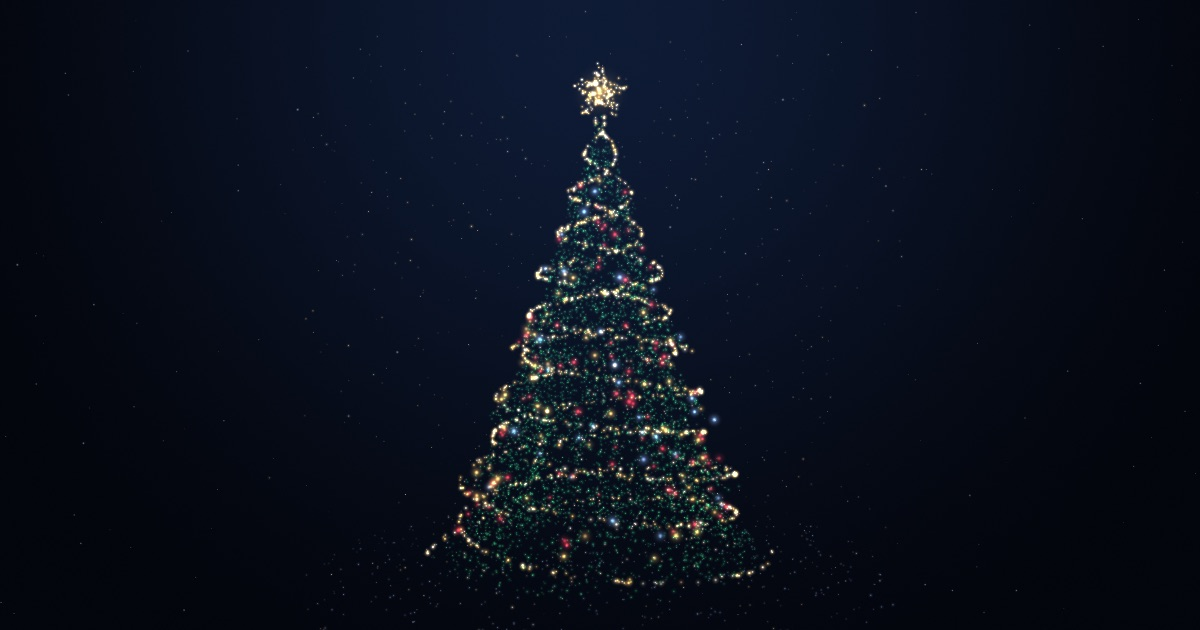
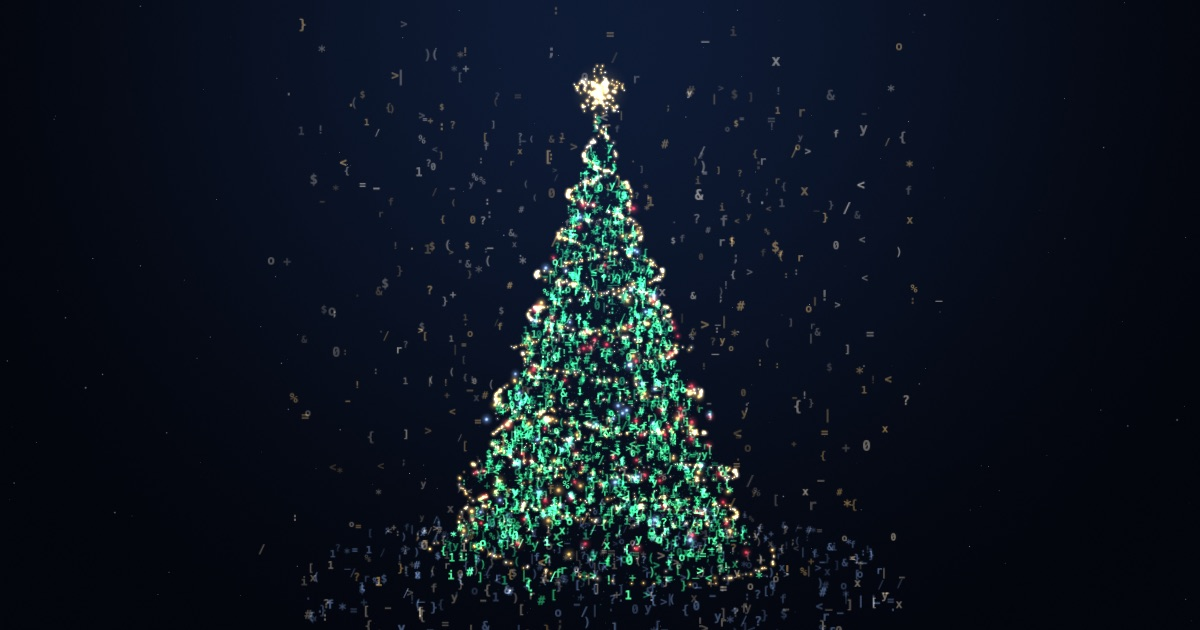
[트리] 트리 가지를 읽히는 크기의 코드 글자로 바꾸고 미리보기 이미지 갱신
## 페이지
- 가지 입자의 약 3분의 1은 자리 잡은 뒤에도 초록 코드 글자로 남고, 나머지는 작고 어두운 점으로 부피만 채움
- 바닥과 주변에 떠 있는 입자도 코드 글자로 표시, 남은 글자는 몇 초에 한 번씩 바뀜
- 전구 줄·오너먼트·별은 빛 점 그대로 유지
- 글리프 텍스처의 글자를 칸 안에서 더 크게 그림

## 공유
- 링크 미리보기 이미지 og.jpg 를 코드 글자 트리로 다시 촬영

diff --git a/index.html b/index.html
@@ -264,6 +264,8 @@ body {
   const size = new Float32Array(N);
   const phase = new Float32Array(N);
   const spin = new Float32Array(N);
+  // 1 이면 자리 잡은 뒤에도 코드 글자로 남고, 0 이면 빛 점(전구·오너먼트·별)이 된다
+  const code = new Float32Array(N);
 
   const setV = (arr, i, x, y, z) => { arr[i * 3] = x; arr[i * 3 + 1] = y; arr[i * 3 + 2] = z; };
   const setC = (arr, i, c, k) => { arr[i * 3] = c[0] * k; arr[i * 3 + 1] = c[1] * k; arr[i * 3 + 2] = c[2] * k; };
@@ -279,8 +281,11 @@ body {
     const r = TREE_R * (1 - h) * tierAt(h) * (0.5 + 0.5 * Math.sqrt(R()));
     const a = R() * Math.PI * 2;
     setV(tree, i, Math.cos(a) * r, Y0 + h * TREE_H, Math.sin(a) * r);
-    if (R() < 0.06) { setC(col, i, WARM, 0.45); size[i] = 70 + R() * 30; }
-    else { setC(col, i, pick(PINES), 0.35 + R() * 0.4); size[i] = 55 + R() * 45; }
+    const roll = R();
+    if (roll < 0.06) { setC(col, i, WARM, 0.45); size[i] = 70 + R() * 30; }
+    // 읽히는 크기의 코드 글자는 일부만 두고, 나머지는 작고 어두운 점으로 트리 부피만 채운다
+    else if (roll < 0.38) { setC(col, i, pick(PINES), 1.0 + R() * 0.5); size[i] = 60; code[i] = 1; }
+    else { setC(col, i, pick(PINES), 0.18 + R() * 0.22); size[i] = 34 + R() * 26; }
     spin[i] = 1;
   }
   // 전구 줄: 두 가닥이 나선으로 감긴다
@@ -330,6 +335,7 @@ body {
     setC(col, i, R() < 0.7 ? ICE : WARM, 0.15 + R() * 0.2);
     size[i] = 45 + R() * 35;
     spin[i] = 1;
+    code[i] = 1;
   }
   // 트리 주변을 떠다니는 반짝이
   for (; i < N; i++) {
@@ -339,6 +345,7 @@ body {
     setC(col, i, R() < 0.5 ? GOLD : WARM, 0.15 + R() * 0.25);
     size[i] = 30 + R() * 40;
     spin[i] = 1;
+    code[i] = 1;
   }
   // 공통: 흩어질 방향, 글자일 때 색, 반짝임 위상
   for (let k = 0; k < N; k++) {
@@ -385,7 +392,7 @@ body {
     c.height = cell * rows;
     const g = c.getContext("2d");
     g.fillStyle = "#fff";
-    g.font = `bold ${Math.round(cell * 0.62)}px "SF Mono", Menlo, Consolas, "Courier New", monospace`;
+    g.font = `bold ${Math.round(cell * 0.74)}px "SF Mono", Menlo, Consolas, "Courier New", monospace`;
     g.textAlign = "center";
     g.textBaseline = "middle";
     chars.forEach((ch, k) => g.fillText(ch, (k % cols + 0.5) * cell, (Math.floor(k / cols) + 0.54) * cell));
@@ -409,6 +416,7 @@ body {
   geo.setAttribute("aFall", new THREE.BufferAttribute(fall, 1));
   geo.setAttribute("aDrop", new THREE.BufferAttribute(drop, 1));
   geo.setAttribute("aGlyph", new THREE.BufferAttribute(glyph, 1));
+  geo.setAttribute("aCode", new THREE.BufferAttribute(code, 1));
 
   const BUILD_DONE = 1e4;
   const pu = {
@@ -448,6 +456,7 @@ body {
       attribute float aFall;
       attribute float aDrop;
       attribute float aGlyph;
+      attribute float aCode;
       varying vec3 vColor;
       varying float vAlpha;
       varying float vGlyph;
@@ -469,7 +478,8 @@ body {
         float fallP = clamp((uBuild - (aLand - aFall)) / aFall, 0.0, 1.0);
         t.y = mix(uTopY + aDrop, t.y, fallP * fallP);
         float shown = step(aLand - aFall, uBuild);
-        float glyphMix = 1.0 - clamp(since / 0.6, 0.0, 1.0);
+        float landMix = 1.0 - clamp(since / 0.6, 0.0, 1.0);
+        float glyphMix = max(landMix, aCode);
         float flash = since >= 0.0 ? exp(-since * 5.0) : 0.0;
         t.y += sin(uTime * 0.9 + aPhase * 40.0) * 0.025;
         vec3 x = aText + vec3(sin(uTime * 1.7 + aPhase * 50.0), cos(uTime * 1.3 + aPhase * 70.0), 0.0) * 0.018;
@@ -477,13 +487,15 @@ body {
         vec4 mv = modelViewMatrix * vec4(p, 1.0);
         gl_Position = projectionMatrix * mv;
         float tw = 1.0 - uTwinkle * (0.5 + 0.5 * sin(uTime * (1.2 + aPhase * 3.5) + aPhase * 91.0));
-        float sz = mix(mix(aSize, 62.0, e), 150.0, glyphMix);
+        float settled = mix(mix(aSize, 62.0, e), mix(190.0, 110.0, e), aCode);
+        float sz = mix(settled, 170.0, landMix);
         gl_PointSize = sz * uScale * uPR * (0.85 + 0.3 * tw) / -mv.z;
-        vColor = mix(aColor, aTextColor, e) * (1.0 + glyphMix * 0.9 + flash * 1.6);
+        vColor = mix(aColor, aTextColor, e) * (1.0 + landMix * 0.9 + flash * 1.6);
         vAlpha = tw * shown;
         vGlyph = glyphMix;
-        // 떨어지는 동안에만 글자가 바뀌며 깜빡이고, 닿으면 멈춘다
-        vGlyphIdx = mod(aGlyph + floor(uTime * 7.0 + aPhase * 13.0) * (1.0 - step(0.0, since)), 32.0);
+        // 떨어지는 동안에는 글자가 빠르게 바뀌고, 코드로 남는 입자는 자리 잡은 뒤에도 몇 초에 한 번씩 바뀐다
+        float flicker = since < 0.0 ? 7.0 : 0.3 * aCode;
+        vGlyphIdx = mod(aGlyph + floor(uTime * flicker + aPhase * 13.0), 32.0);
       }
     `,
     fragmentShader: `
